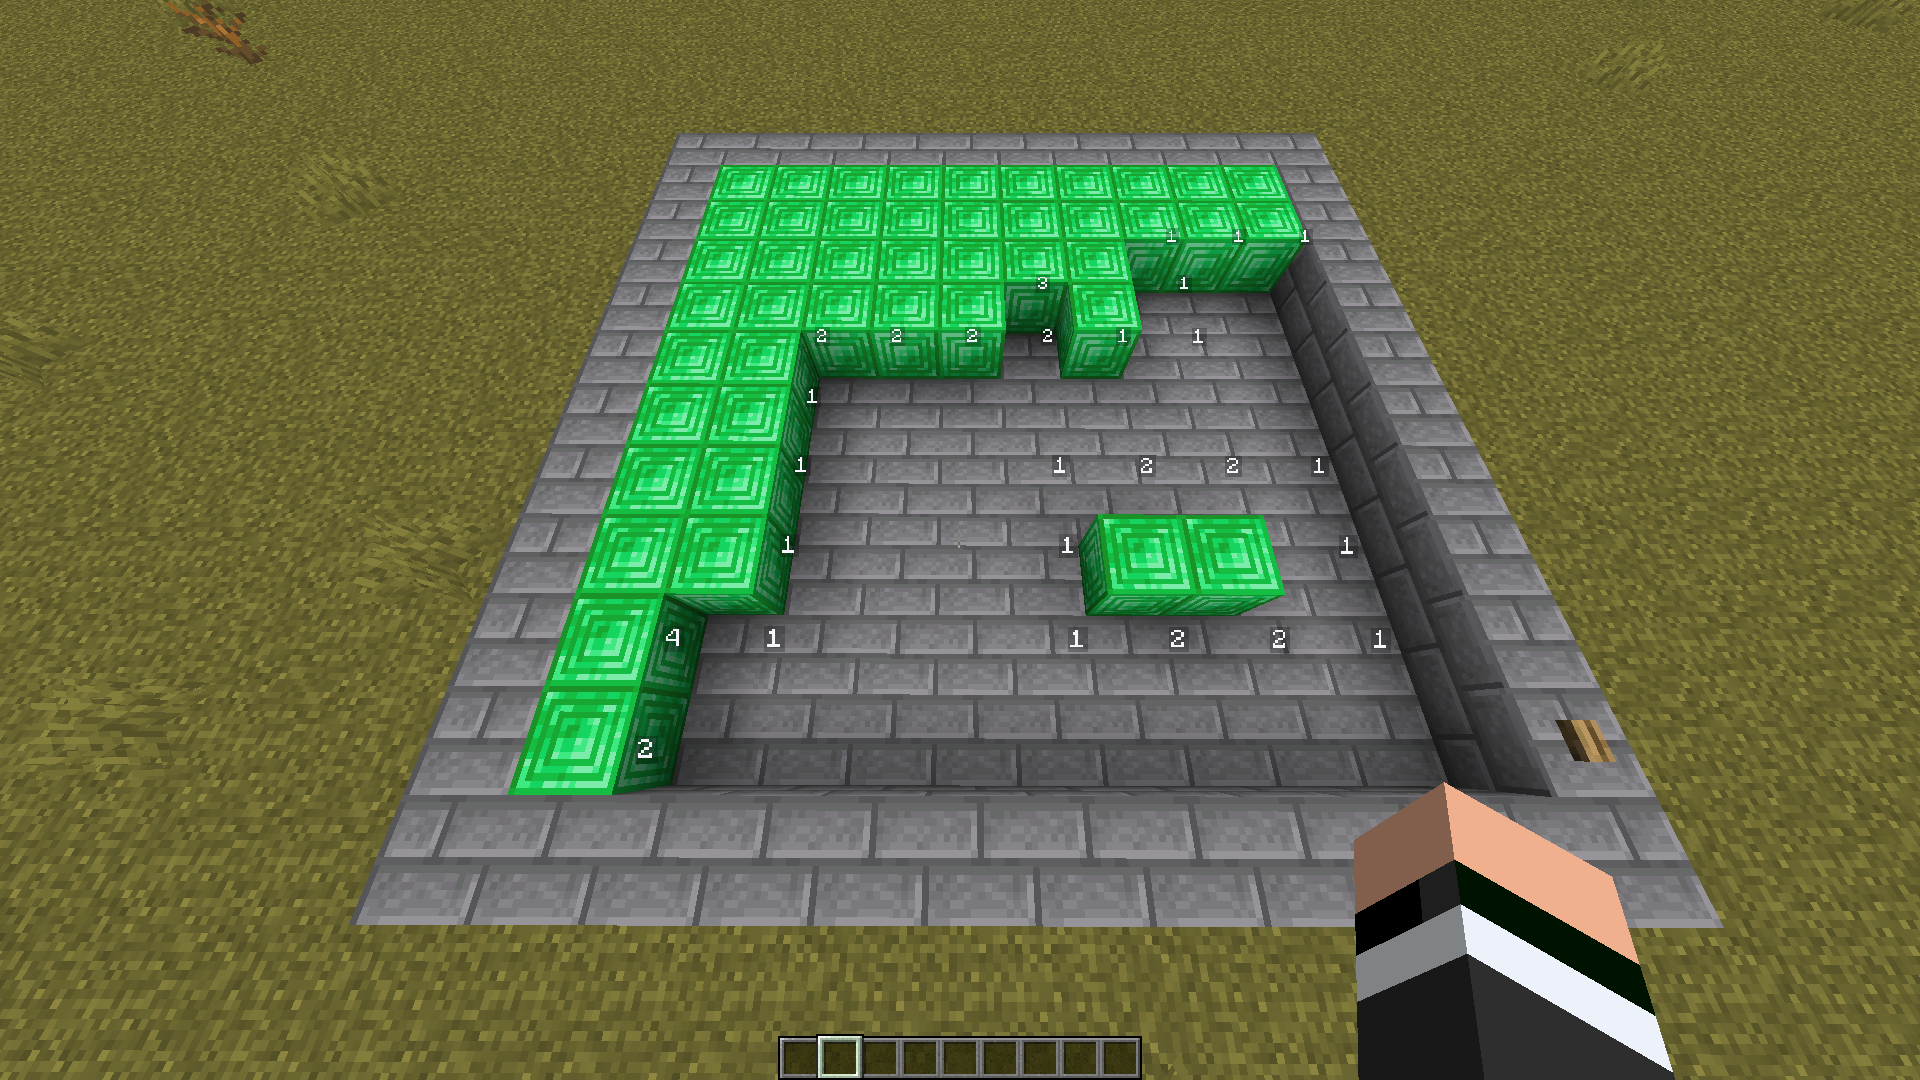
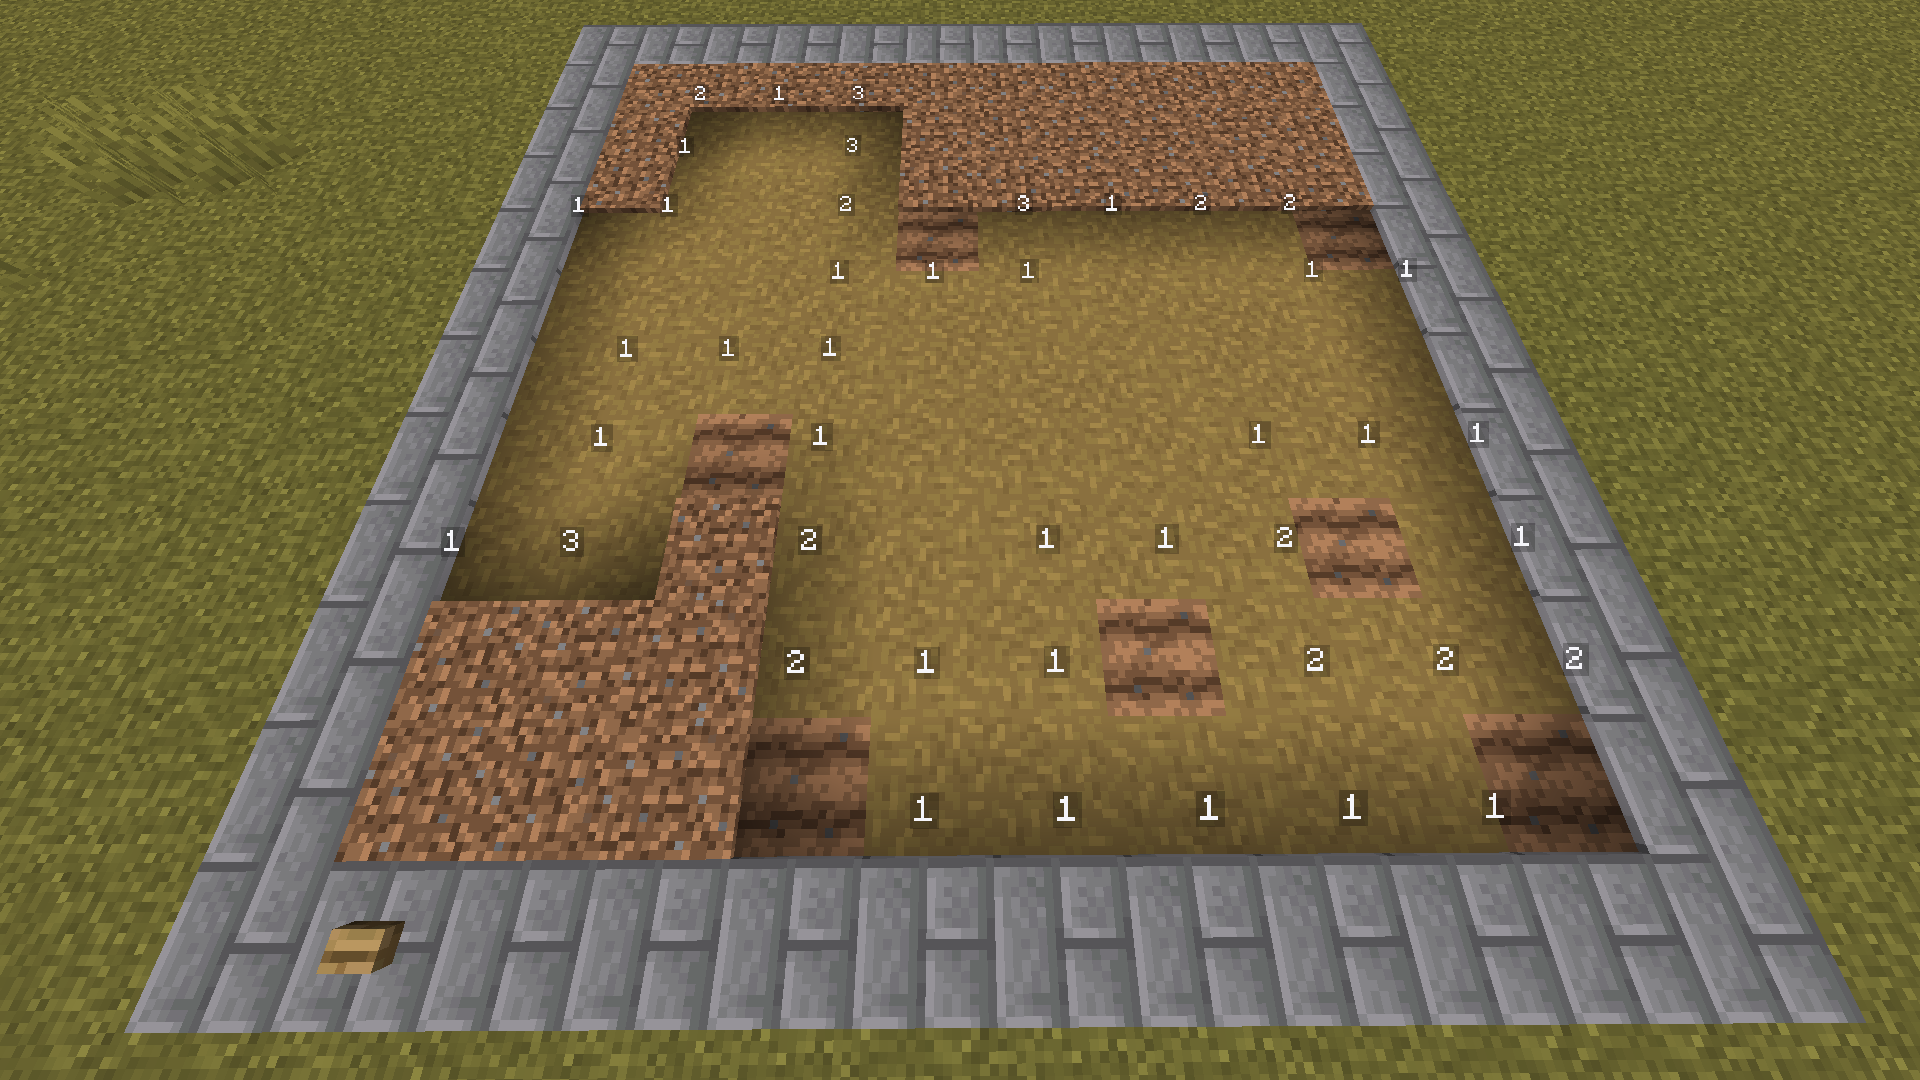
Update README with the new blocks and game rules.

diff --git a/README.md b/README.md
@@ -22,3 +22,14 @@ After that, place a commandblock in your world with the command `function minesw
 This function will do all the setup and create the playing field over itself,
 ready to play. To reset the gameboard, simply power the commandblock again and
 the old board will be overwriten.
+
+## How to play
+
+To uncover a field, right-click with a shovel to transform it into a path. If
+it is a bomb, you loose. Otherwise it will display the number of bombs in the
+surrounding 8 fields. If you suspect a field to be a bomb, you can flag it with
+the hoe, by transforming the dirt into farmland. To remove the flag jump on the
+farmland until it returns to dirt.
+
+You win by either uncovering all the blocks that aren't bombs, or flagging all
+the bombs correctly.
